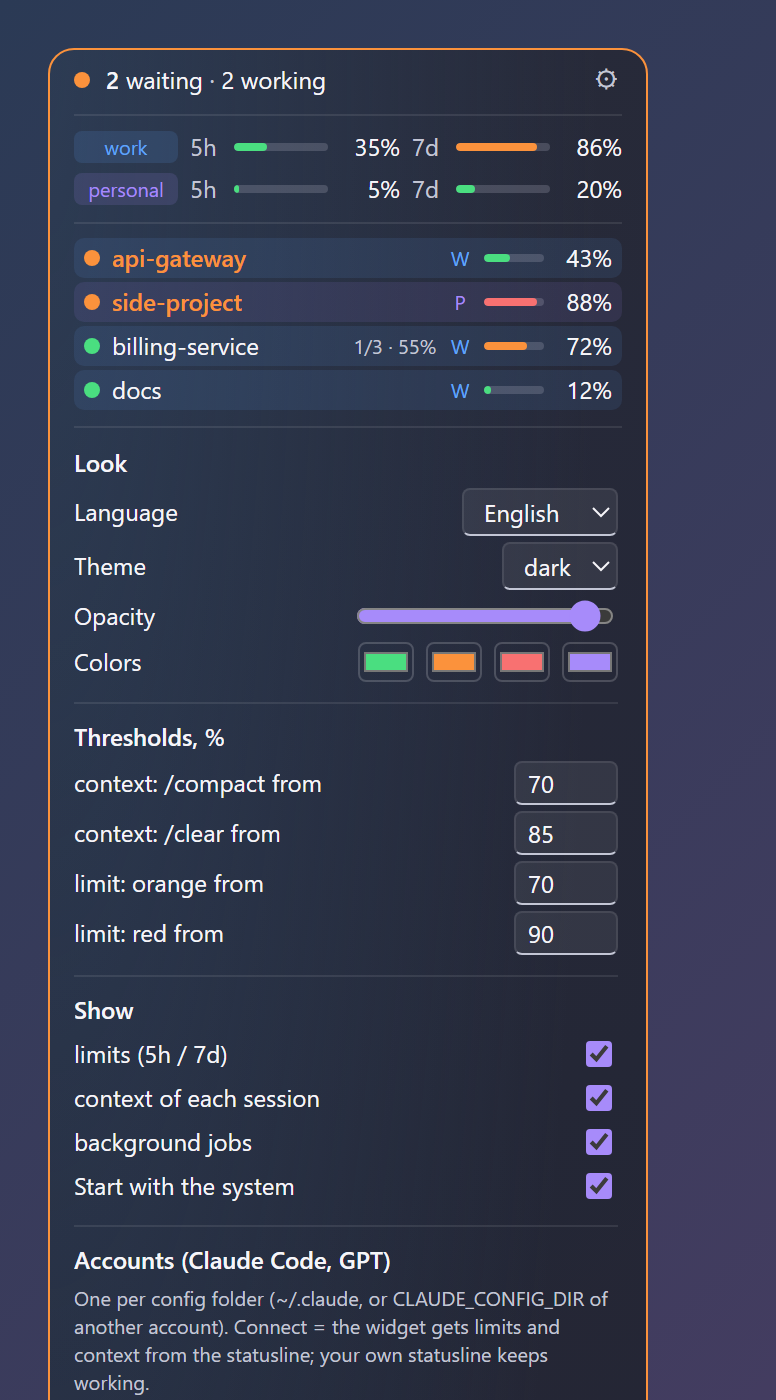
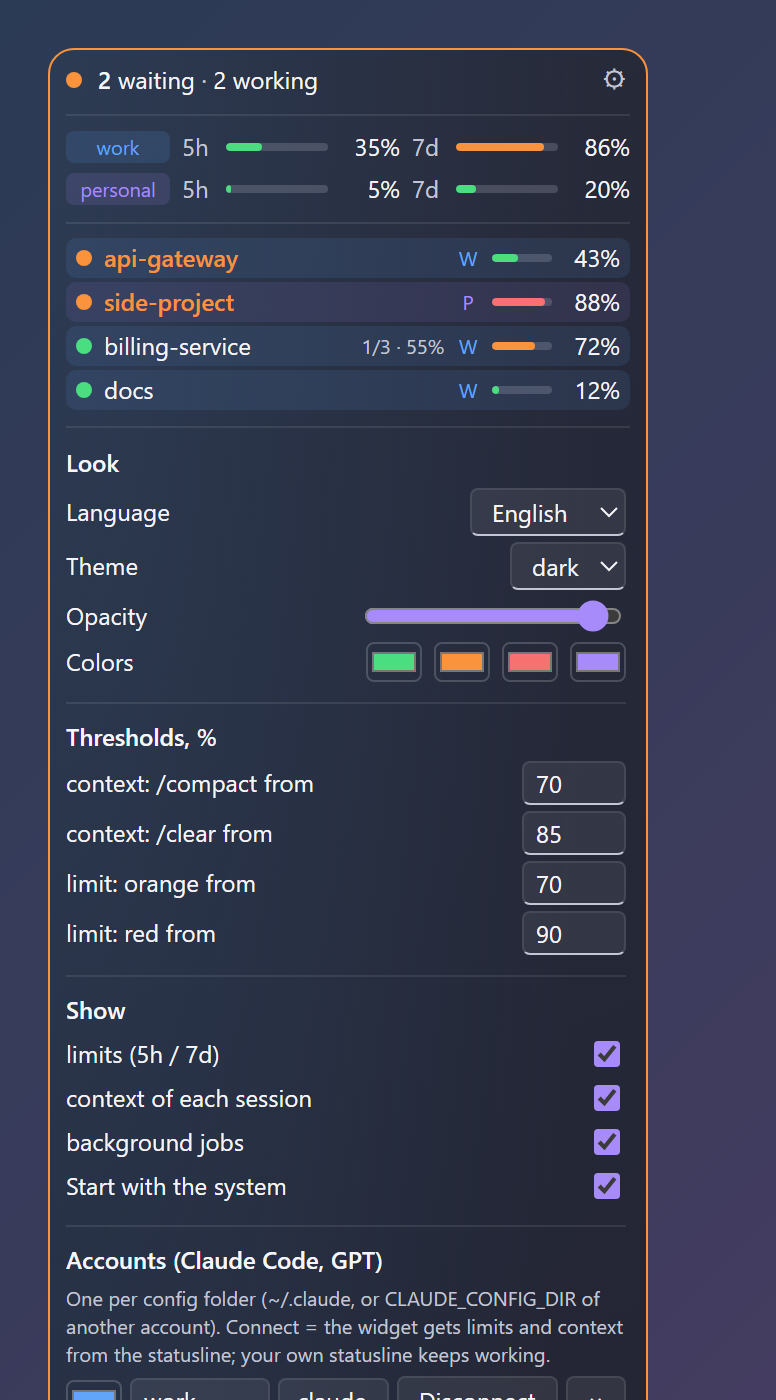
Fluent: restore 8px side padding so the PLUS chip fits; stronger solid tags in the light theme

diff --git a/ui/widget.css b/ui/widget.css
@@ -33,7 +33,7 @@
 html, body { margin: 0; background: transparent; color: var(--text);
   font: 12px/1.4 "Segoe UI Variable", "Segoe UI", system-ui, -apple-system, sans-serif;
   font-variant-numeric: tabular-nums; overflow: hidden; user-select: none; }
-#box { background: var(--bg); border: 1px solid var(--border); border-radius: 13px; box-sizing: border-box; padding: 4px 12px 6px;
+#box { background: var(--bg); border: 1px solid var(--border); border-radius: 13px; box-sizing: border-box; padding: 4px 8px 6px;
   height: 100vh; display: flex; flex-direction: column; }
 #view { flex: 1; min-height: 0; overflow: hidden; display: flex; flex-direction: column; }
 #view > .section { flex: none; }
@@ -149,6 +149,9 @@ body.dense8 #limits { display: none; }
 /* Gemini (agy): its own colour, dashed like the GPT tag; greyed when the probe failed */
 .tag.gemini { border-style: dashed; color: #64cfff; border-color: #64cfff; }
 .tag.gemini.off { color: var(--muted); border-color: var(--border); }
+:root.light .tag:not(.gpt):not(.gemini) { background: color-mix(in srgb, currentColor 21%, transparent);
+  /* the account color is inline (beats any color rule here), so darken the whole tag instead */
+  filter: brightness(0.72); }
 :root.light .tag.gemini { color: #0a7fb3; border-color: #0a7fb3; }
 .lim.gpt .lbl { width: auto; min-width: 16px; }
 .lim .gerr { overflow: hidden; text-overflow: ellipsis; white-space: nowrap; }
